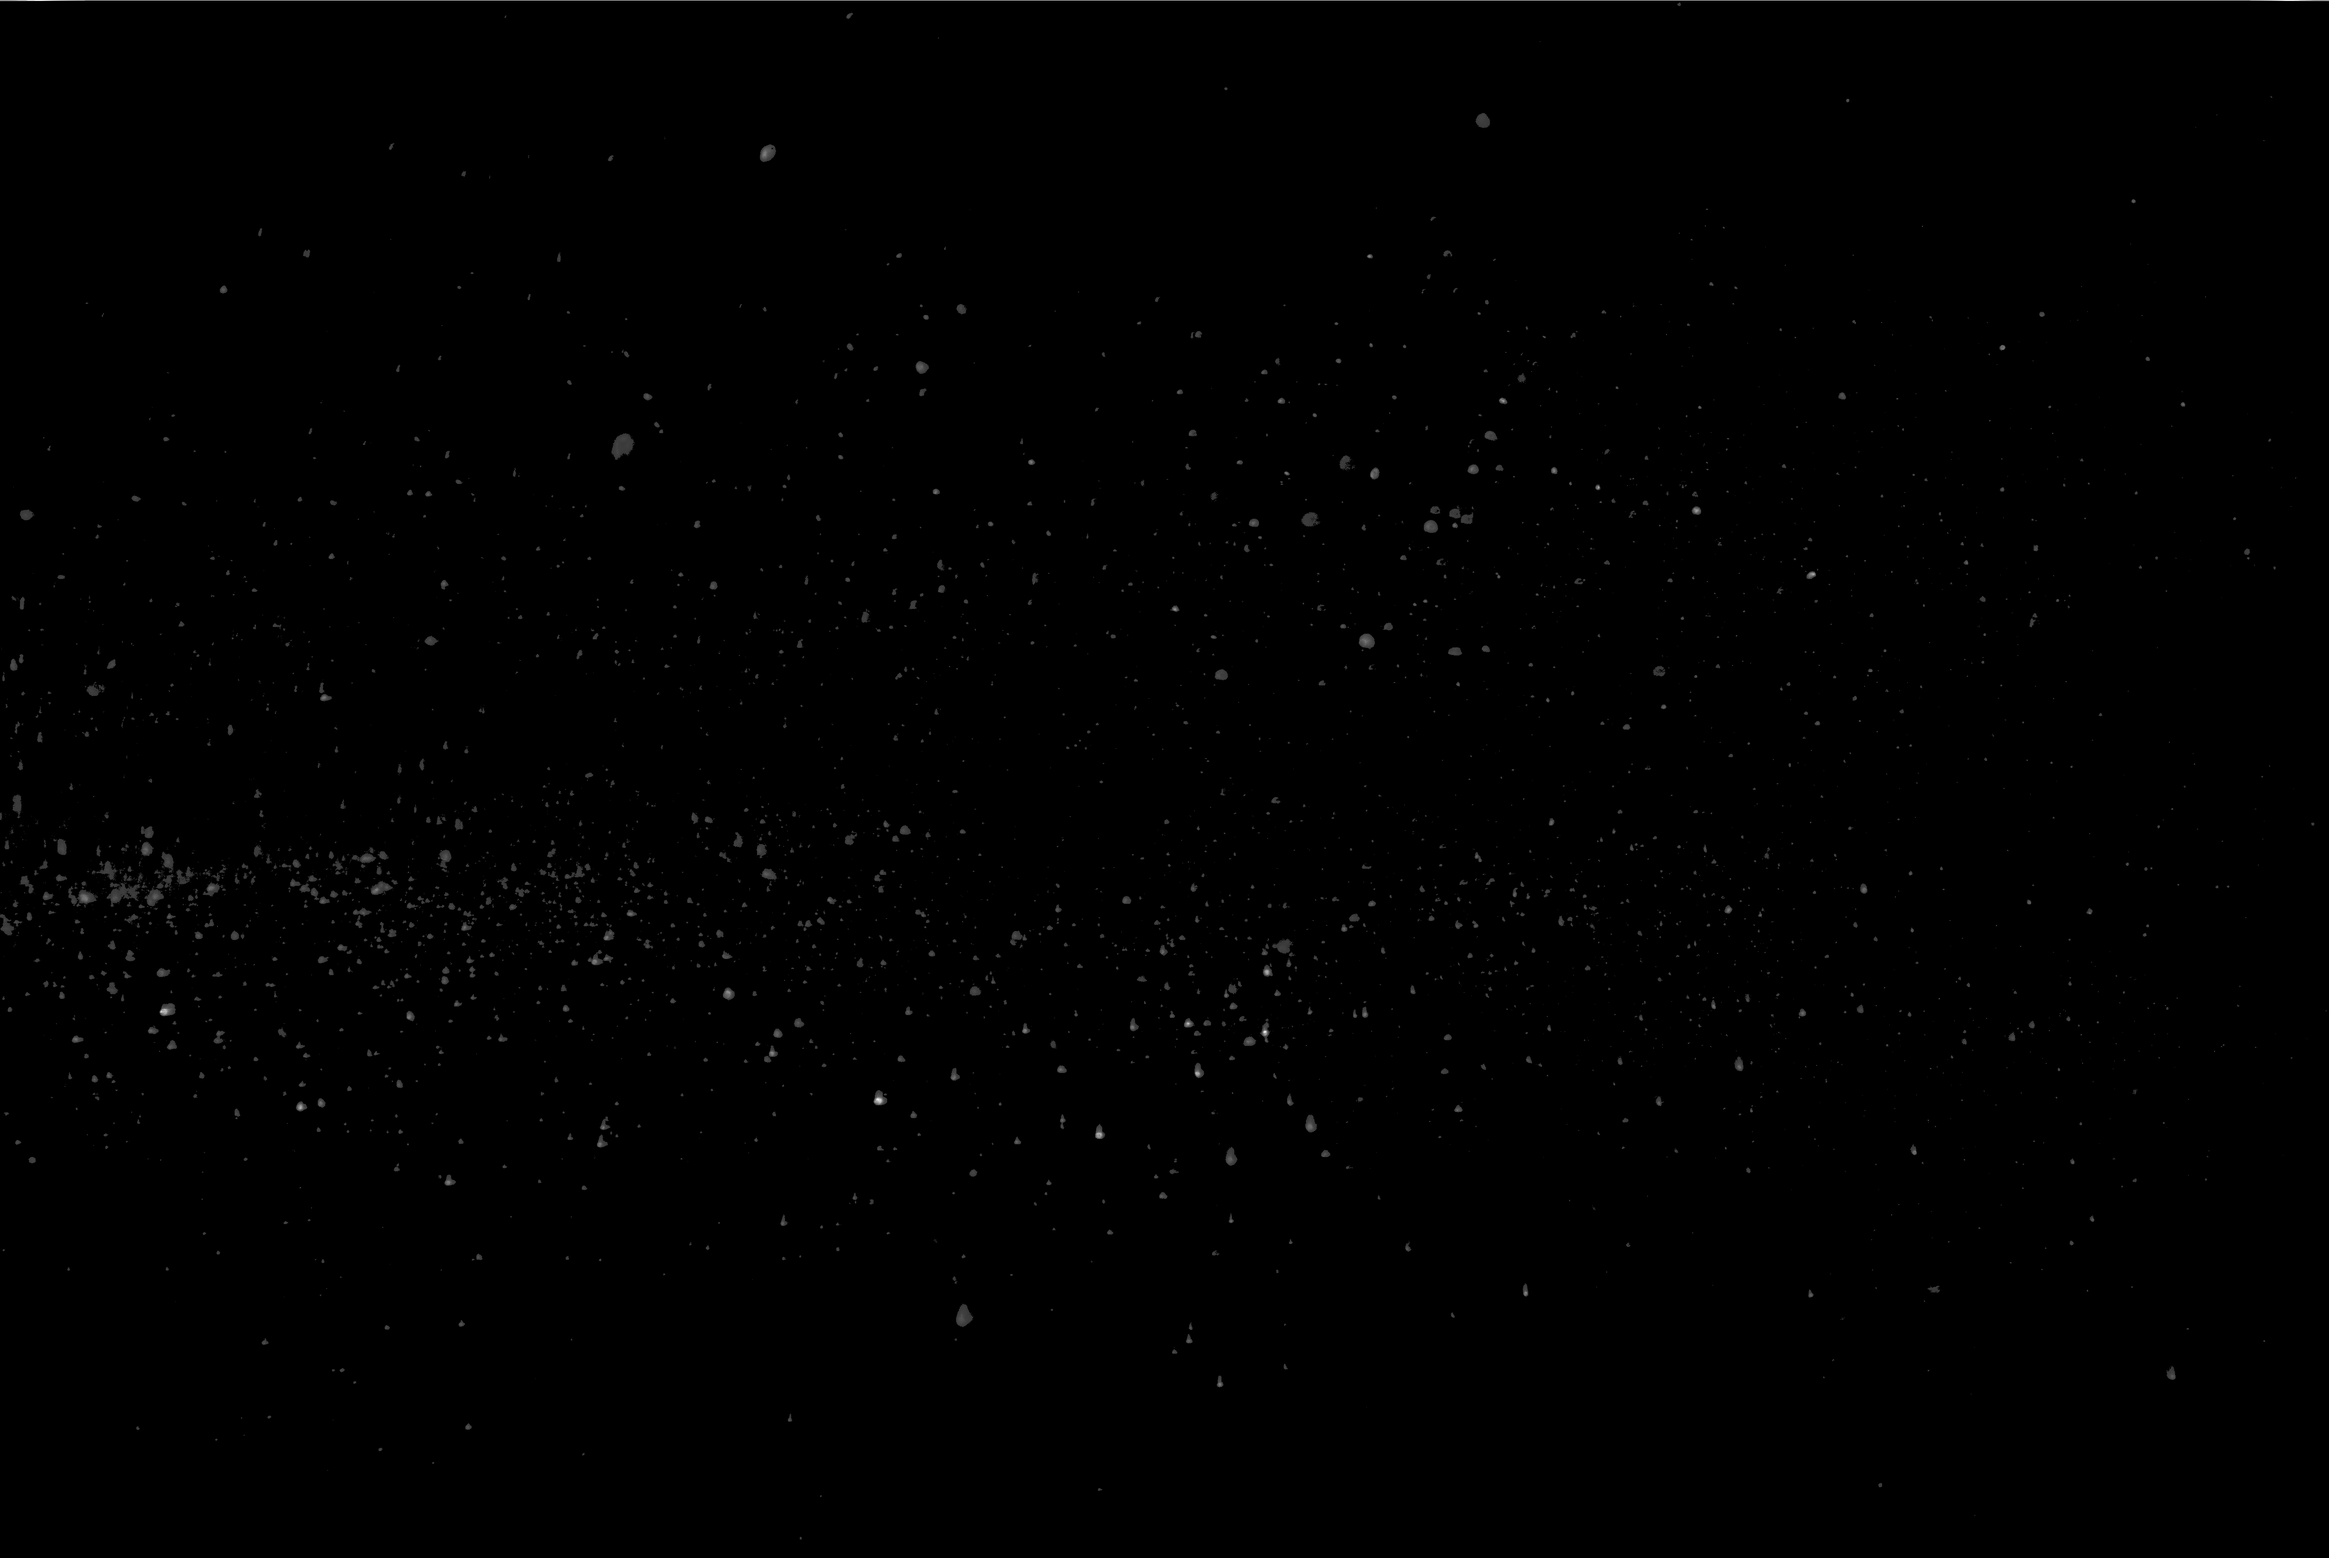
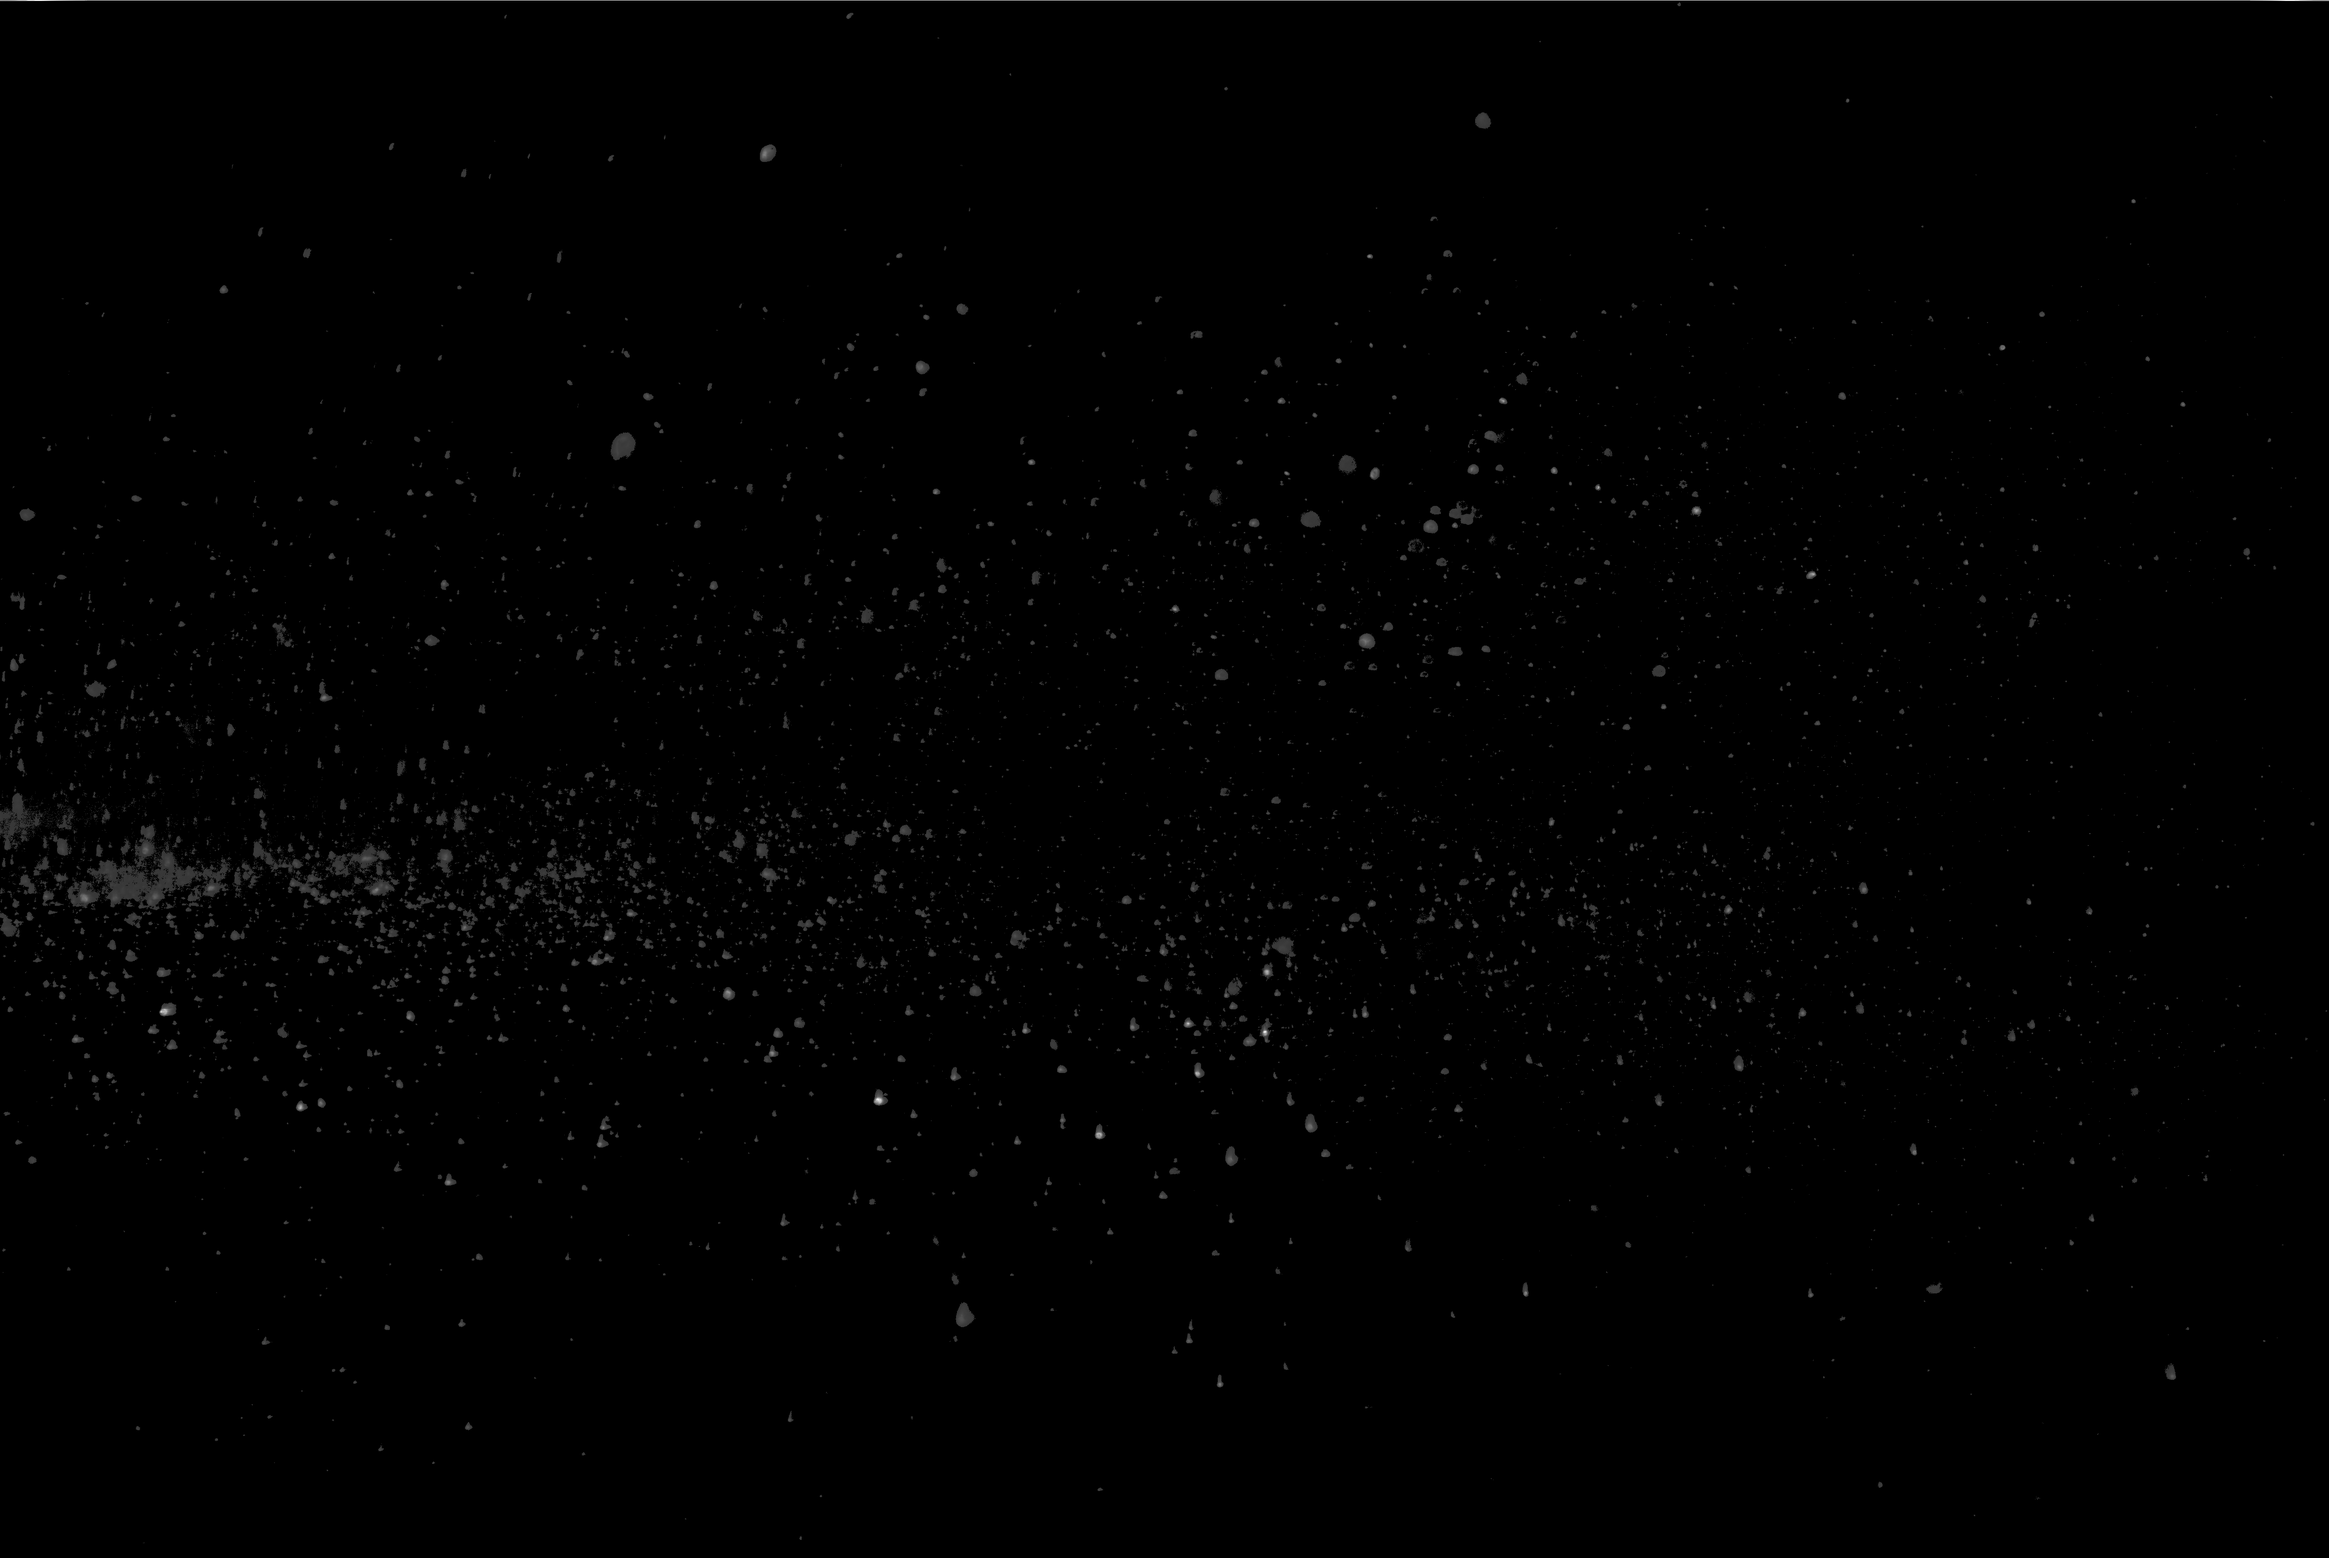
Настройка параметров Farneback анализа
- Изменены параметры в execute_farneback_analysis: winsize=10, grid_step=30
- Изменен параметр nx=74 в execute_farneback_vector_field
- Понижен порог фильтрации до 1500 в filter_for_Farneback
- Обновлены нормализованные изображения

Changed region(s): [[0.0, 0.4976, 0.1872, 0.5909], [0.2184, 0.5598, 0.2496, 0.5909]]

diff --git a/execute/execute_analysis/execute_farneback_analysis.py b/execute/execute_analysis/execute_farneback_analysis.py
@@ -554,11 +554,11 @@ def example_gui_usage():
         # Параметры Farneback
         pyr_scale=0.5,
         levels=4,
-        winsize=17,
+        winsize=10,
         iterations=3,
         poly_n=5,
         poly_sigma=1.3,
-        grid_step=10,
+        grid_step=30,
         # Физические параметры
         dt=0.002,
         scaling_factor=1.0,

diff --git a/execute/execute_analysis/execute_farneback_vector_field.py b/execute/execute_analysis/execute_farneback_vector_field.py
@@ -437,7 +437,7 @@ def example_gui_usage():
     parameters = FarnebackVectorFieldParameters(
         farneback_folder=r"C:\Users\evils\OneDrive\Desktop\S6_DT600_WA600_16bit_cam_sorted\Farneback_2000",
         method="farneback",
-        nx=50,
+        nx=74,
         ny=50,
         scale=20,
         width=0.005,

diff --git a/research/filter_for_Farneback.py b/research/filter_for_Farneback.py
@@ -156,7 +156,7 @@ if __name__ == "__main__":
     img_b_path = r"C:\Users\evils\OneDrive\Desktop\S6_DT600_WA600_16bit_cam_sorted\cam_2\1_b.png"
 
     # === Параметры ===
-    THRESHOLD = 2000
+    THRESHOLD = 1500
     OUTPUT_RANGE = (50, 255)
 
     # === Директория для сохранения ===
